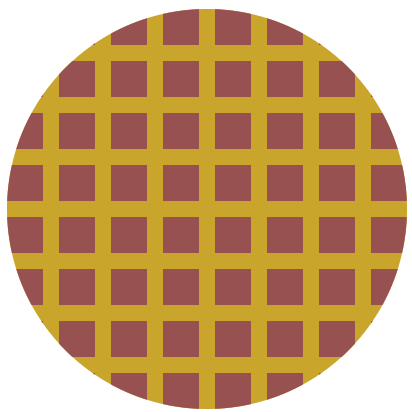
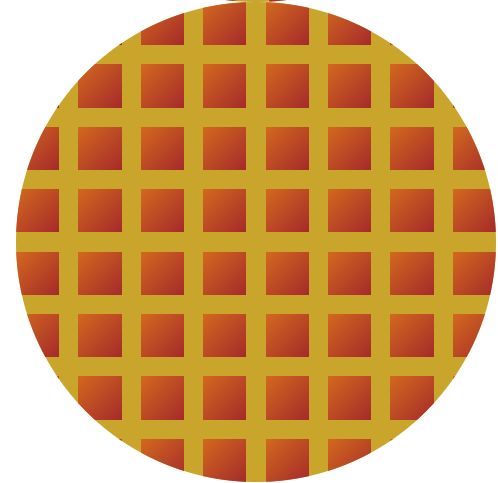
new

diff --git a/style.css b/style.css
@@ -6,6 +6,7 @@
   --height: 15rem;
   --gap: 6%;
   --color: #00ffff;
+  --gradient-color: none;
 }
 
 .grid {
@@ -20,6 +21,7 @@
 
 .squares {
   background-color: var(--color);
+  background-image: var(--gradient-color);
 }
 
 .rotating {

diff --git a/README.md b/README.md
@@ -79,7 +79,8 @@ In the CSS in `:root` change the colors like this-
   --width: 15rem;
   --height: 15rem;
   --gap: 4%;
-  --color: #975151;
+  --color: none;
+  --gradient-color: linear-gradient(to right bottom, #d2691e, #a52a2a);
 }
 ```
 
